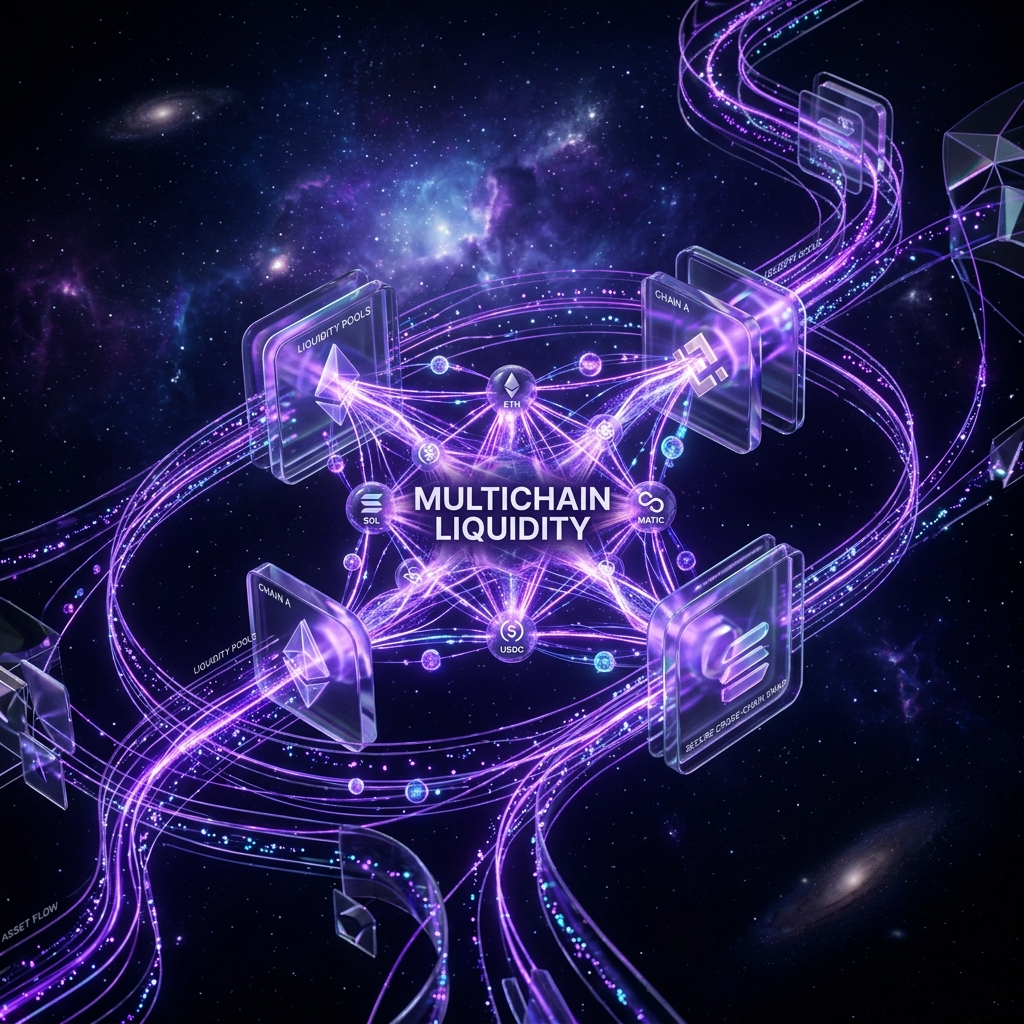
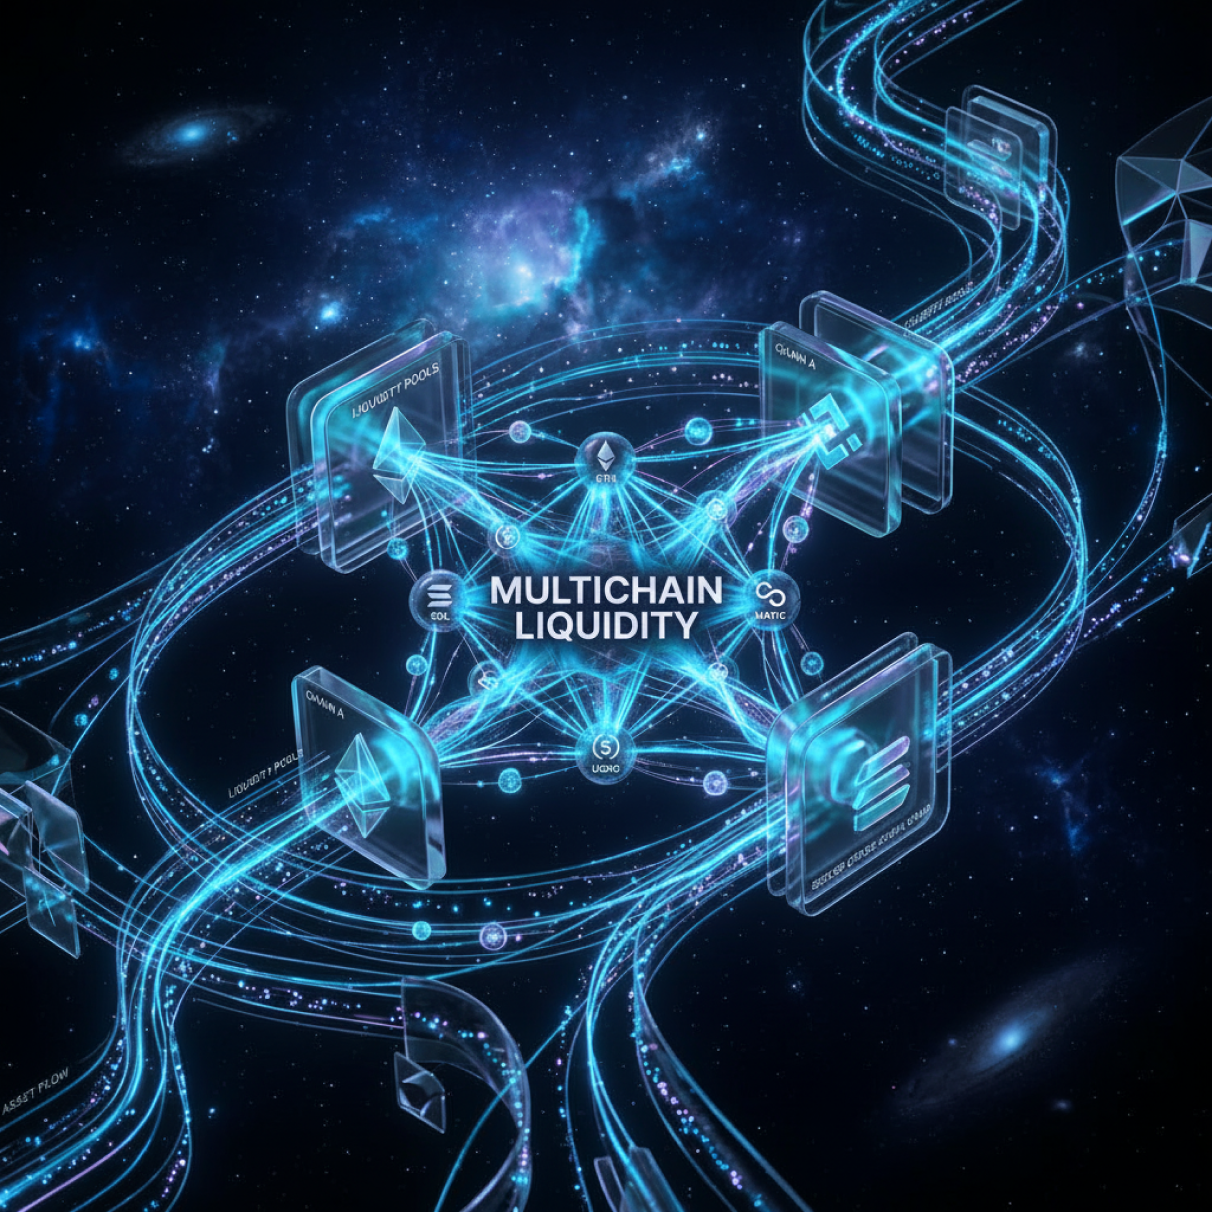
imges changes

diff --git a/src/components/docs/DocReaderLayout.tsx b/src/components/docs/DocReaderLayout.tsx
@@ -28,12 +28,10 @@ type Props = {
   enableNavSearch?: boolean;
 };
 
-/** Docs panes fit content, then scroll only when taller than the viewport. */
-const docPanelHeightClass =
-  "md:max-h-[calc(100dvh-var(--docs-reader-chrome))]";
+/** Main documentation content box — fixed 780px with internal scroll. */
+const docPanelHeightClass = "h-[780px] max-h-[780px]";
 
-const docScrollHeightClass =
-  "md:max-h-[calc(100dvh-var(--docs-reader-chrome)-4rem)]";
+const docScrollHeightClass = "min-h-0 flex-1";
 
 /** Sidebar should fit its nav content, then scroll only when the nav is taller than the viewport. */
 const sidebarPanelHeightClass =
@@ -293,7 +291,7 @@ export function DocReaderLayout({
           </Sidebar>
 
           <article className={cn("flex min-w-0 self-start flex-col", docPanelHeightClass)}>
-            <div className={cn(mainShellClass, "min-h-0", docPanelHeightClass)}>
+            <div className={cn(mainShellClass, "h-full min-h-0")}>
               <div
                 ref={mainScrollRef}
                 className={cn("doc-scroll min-h-0", docScrollHeightClass)}

diff --git a/src/components/about/AboutNextGen.tsx b/src/components/about/AboutNextGen.tsx
@@ -44,14 +44,14 @@ const AboutNextGen = () => {
               transition={{ duration: 0.8, delay: 0.2 }}
               className="order-1 lg:order-2"
             >
-              <div className="w-full max-w-[500px] mx-auto lg:ml-auto">
+              <div className="w-full max-w-[530px] mx-auto lg:ml-auto">
                 <div className="relative z-10 flex items-center justify-center overflow-hidden rounded-[16px] after:pointer-events-none after:absolute after:inset-0 after:bg-[linear-gradient(rgba(36,186,206,0.1)_1px,transparent_1px),linear-gradient(90deg,rgba(36,186,206,0.1)_1px,transparent_1px)] after:bg-[size:40px_40px] after:opacity-30">
                   <Image
                     src={image5Img}
                     alt="Elementa Next Gen"
-                    width={500}
+                    width={530}
                     height={500}
-                    className="object-contain w-full h-full"
+                    className="object-contain  h-full"
                   />
                 </div>
               </div>